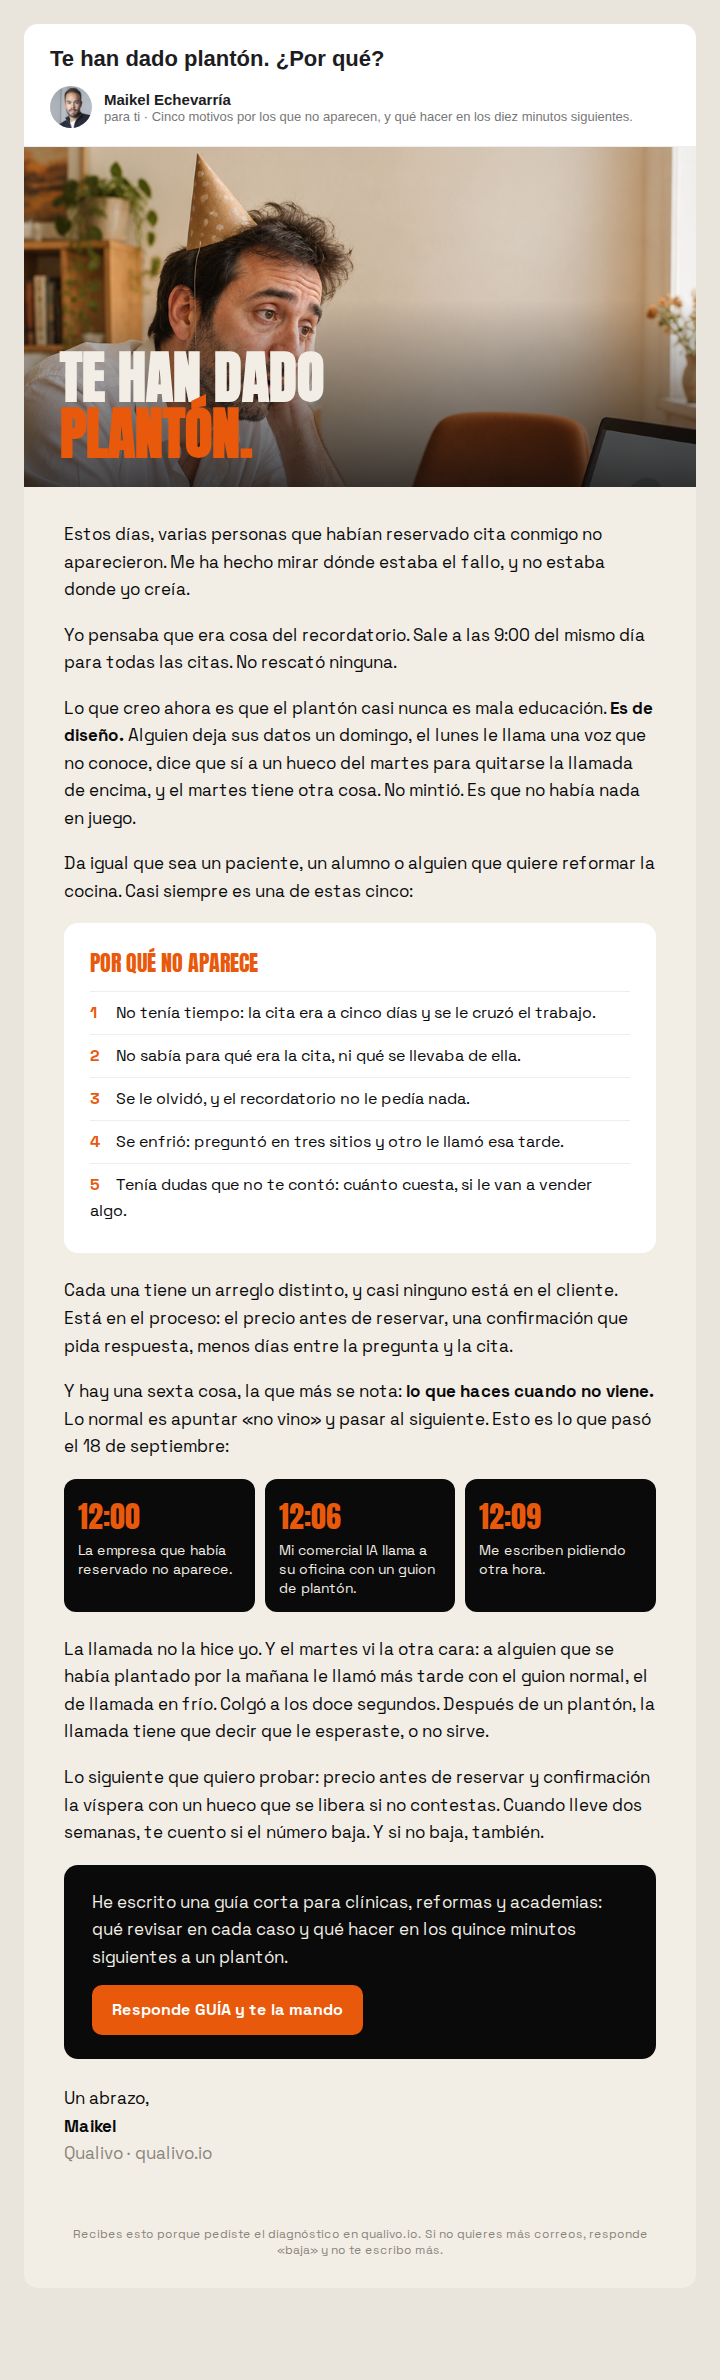
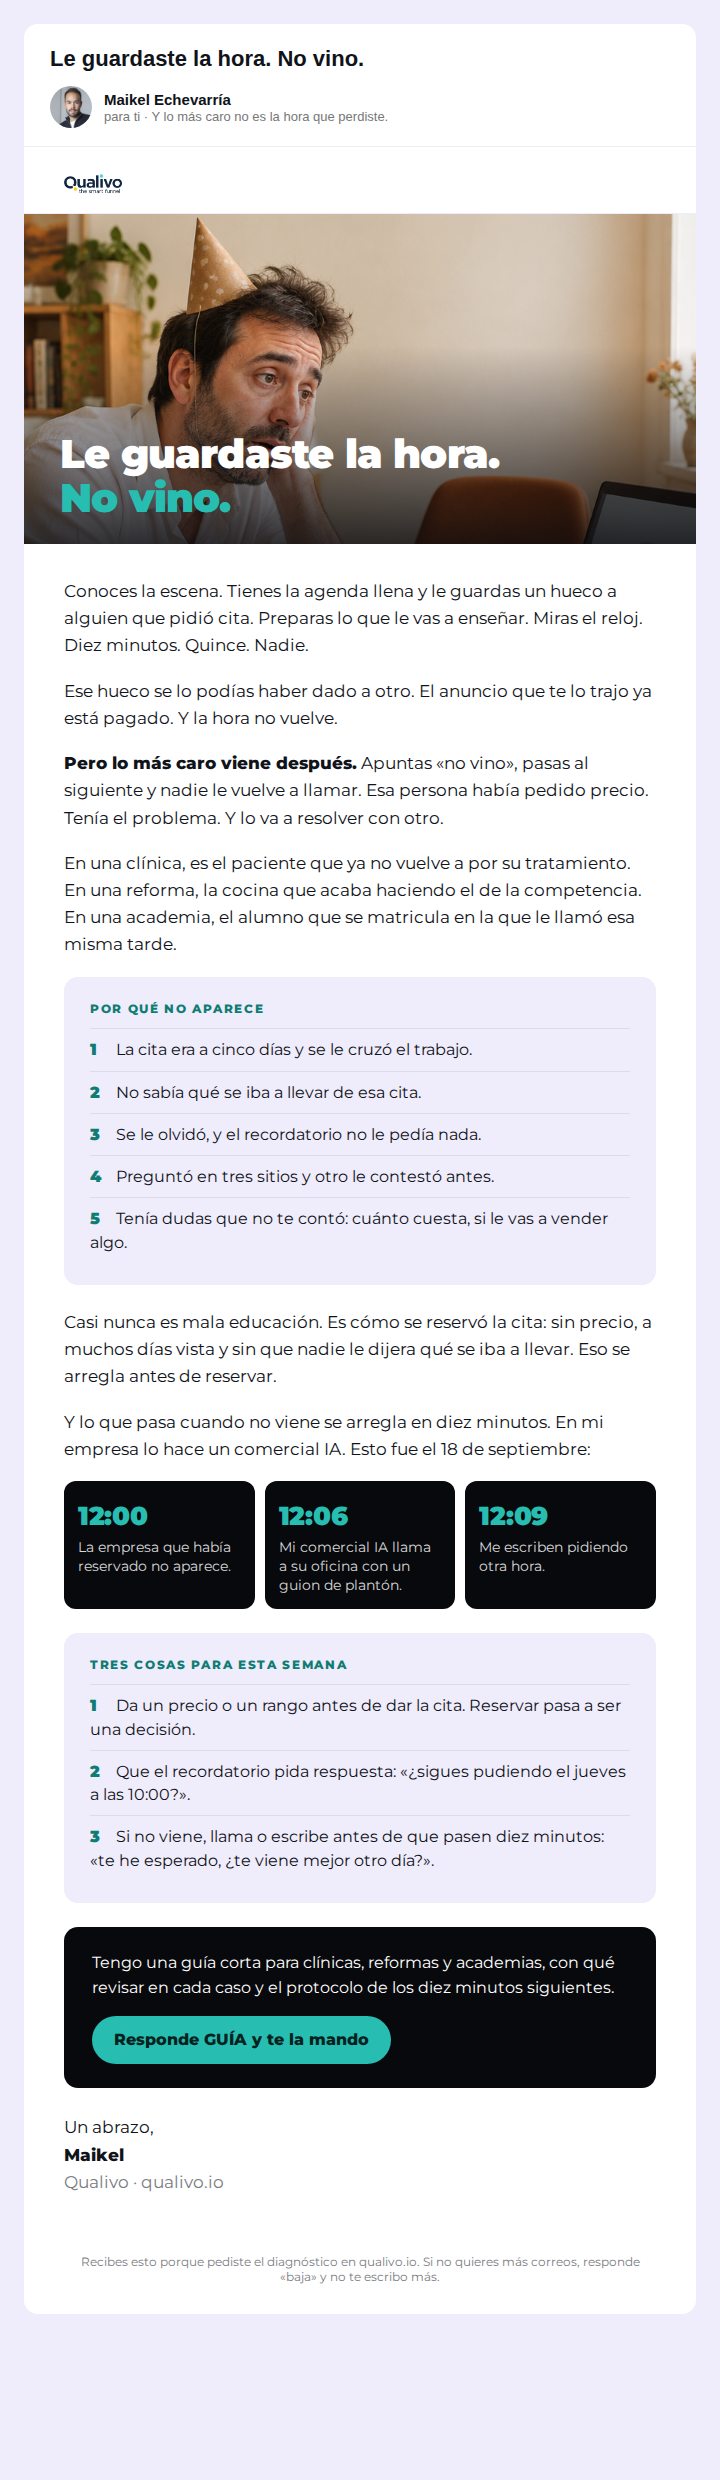
Newsletter de plantones v2: centrada en el dolor del cliente y con los colores y la tipografía de qualivo.io
Claude-Session: https://claude.ai/code/session_015zPzMSu62cfqSPYhENKK62

diff --git a/content/newsletter/maqueta/2026-09-25-plantones.html b/content/newsletter/maqueta/2026-09-25-plantones.html
@@ -1,65 +1,70 @@
 <!DOCTYPE html><html lang="es"><head><meta charset="utf-8"><style>
-@font-face{font-family:Anton;src:url(../../infografias/2026-09-10/fuentes/anton.ttf)}
-@font-face{font-family:SG;src:url(../../infografias/2026-09-10/fuentes/spacegrotesk.woff2) format('woff2')}
+@font-face{font-family:Montserrat;font-weight:100 900;src:url(../../../assets/fonts/montserrat-latin.woff2) format('woff2')}
 *{margin:0;padding:0;box-sizing:border-box}
-body{background:#E9E5DC;font-family:Arial,Helvetica,sans-serif;color:#1d1d1f;width:720px}
-.inbox{background:#fff;margin:24px 24px 0;border-radius:14px 14px 0 0;padding:22px 26px 18px;border-bottom:1px solid #eee}
+body{background:#EFECFB;font-family:Montserrat,Arial,sans-serif;color:#101319;width:720px}
+.inbox{background:#fff;margin:24px 24px 0;border-radius:14px 14px 0 0;padding:22px 26px 18px;border-bottom:1px solid #eee;font-family:Arial,Helvetica,sans-serif}
 .subj{font-size:22px;font-weight:700;margin-bottom:14px}
 .from{display:flex;align-items:center;gap:12px}
 .av{width:42px;height:42px;border-radius:50%;background:url(../../../assets/img/maikel.jpg) center/cover}
 .from b{font-size:15px}.from span{display:block;font-size:13px;color:#777}
-.mail{background:#F2EEE6;margin:0 24px 24px;border-radius:0 0 14px 14px;overflow:hidden}
-.hero{height:340px;background:url(portada.png) center 30%/cover;position:relative}
-.hero::after{content:'';position:absolute;inset:0;background:linear-gradient(180deg,rgba(0,0,0,0) 45%,rgba(10,10,11,.75) 100%)}
-.hero h1{position:absolute;left:36px;right:36px;bottom:26px;z-index:2;font-family:Anton;font-size:56px;line-height:1;text-transform:uppercase;color:#F2EEE6}
-.hero h1 span{color:#E8590C}
-.body{padding:34px 40px 40px;font-family:SG;font-size:17px;line-height:1.62;color:#0A0A0B}
+.mail{background:#FFFFFF;margin:0 24px 24px;border-radius:0 0 14px 14px;overflow:hidden}
+.logo{padding:22px 40px 18px;border-bottom:1px solid #EFECFB}.logo img{height:26px;display:block}
+.hero{height:330px;background:url(portada.png) center 30%/cover;position:relative}
+.hero::after{content:'';position:absolute;inset:0;background:linear-gradient(180deg,rgba(8,9,12,0) 40%,rgba(8,9,12,.82) 100%)}
+.hero h1{position:absolute;left:36px;right:36px;bottom:24px;z-index:2;font-weight:900;font-size:40px;line-height:1.1;letter-spacing:-.02em;color:#fff}
+.hero h1 span{color:#27BDB1}
+.body{padding:34px 40px 40px;font-size:16.5px;line-height:1.65;color:#101319}
 .body p{margin-bottom:18px}
-.body b{font-weight:700}
-.list{background:#fff;border-radius:14px;padding:22px 26px;margin:6px 0 24px}
-.list .t{font-family:Anton;font-size:22px;text-transform:uppercase;color:#E8590C;margin-bottom:10px}
-.list div.i{padding:8px 0;border-top:1px solid #eee;font-size:16px}
+.body b{font-weight:800}
+.list{background:#EFECFB;border-radius:14px;padding:22px 26px;margin:6px 0 24px}
+.list .t{font-size:12px;letter-spacing:.14em;text-transform:uppercase;font-weight:800;color:#0E7C74;margin-bottom:10px}
+.list div.i{padding:9px 0;border-top:1px solid rgba(16,19,25,.08);font-size:15.5px;line-height:1.5}
 .list div.i:first-of-type{border-top:0}
-.list div.i b{display:inline-block;width:26px;color:#E8590C}
+.list div.i b{display:inline-block;width:26px;color:#0E7C74;font-weight:900}
 .tl{display:flex;gap:10px;margin:6px 0 24px}
-.tl div{flex:1;background:#0A0A0B;color:#F2EEE6;border-radius:12px;padding:14px 14px}
-.tl div b{display:block;font-family:Anton;font-size:30px;color:#E8590C;font-weight:400}
-.tl div span{font-size:14px;line-height:1.35;display:block}
-.cta{background:#0A0A0B;color:#F2EEE6;border-radius:14px;padding:24px 28px;margin-top:8px}
-.cta .btn{display:inline-block;margin-top:14px;background:#E8590C;color:#fff;font-weight:700;padding:12px 20px;border-radius:10px;font-size:16px}
+.tl div{flex:1;background:#08090C;color:#fff;border-radius:12px;padding:14px}
+.tl div b{display:block;font-weight:900;font-size:26px;color:#27BDB1;letter-spacing:-.01em}
+.tl div span{font-size:13.5px;line-height:1.4;display:block;color:rgba(255,255,255,.85)}
+.cta{background:#08090C;color:#fff;border-radius:14px;padding:24px 28px;margin-top:8px;font-size:16px;line-height:1.55}
+.cta .btn{display:inline-block;margin-top:16px;background:#27BDB1;color:#04231F;font-weight:800;padding:12px 22px;border-radius:999px;font-size:15.5px}
 .firma{margin-top:26px}
-.pie{font-size:12px;color:#8a857c;text-align:center;padding:0 40px 30px;font-family:SG}
+.pie{font-size:12px;color:#7A7C82;text-align:center;padding:0 40px 30px}
 </style></head><body>
 <div class="inbox">
-  <div class="subj">Te han dado plantón. ¿Por qué?</div>
-  <div class="from"><div class="av"></div><div><b>Maikel Echevarría</b><span>para ti · Cinco motivos por los que no aparecen, y qué hacer en los diez minutos siguientes.</span></div></div>
+  <div class="subj">Le guardaste la hora. No vino.</div>
+  <div class="from"><div class="av"></div><div><b>Maikel Echevarría</b><span>para ti · Y lo más caro no es la hora que perdiste.</span></div></div>
 </div>
 <div class="mail">
-  <div class="hero"><h1>Te han dado<br><span>plantón.</span></h1></div>
+  <div class="logo"><img src="../../../assets/img/qualivo-logo.png" alt="Qualivo"></div>
+  <div class="hero"><h1>Le guardaste la hora.<br><span>No vino.</span></h1></div>
   <div class="body">
-    <p>Estos días, varias personas que habían reservado cita conmigo no aparecieron. Me ha hecho mirar dónde estaba el fallo, y no estaba donde yo creía.</p>
-    <p>Yo pensaba que era cosa del recordatorio. Sale a las 9:00 del mismo día para todas las citas. No rescató ninguna.</p>
-    <p>Lo que creo ahora es que el plantón casi nunca es mala educación. <b>Es de diseño.</b> Alguien deja sus datos un domingo, el lunes le llama una voz que no conoce, dice que sí a un hueco del martes para quitarse la llamada de encima, y el martes tiene otra cosa. No mintió. Es que no había nada en juego.</p>
-    <p>Da igual que sea un paciente, un alumno o alguien que quiere reformar la cocina. Casi siempre es una de estas cinco:</p>
+    <p>Conoces la escena. Tienes la agenda llena y le guardas un hueco a alguien que pidió cita. Preparas lo que le vas a enseñar. Miras el reloj. Diez minutos. Quince. Nadie.</p>
+    <p>Ese hueco se lo podías haber dado a otro. El anuncio que te lo trajo ya está pagado. Y la hora no vuelve.</p>
+    <p><b>Pero lo más caro viene después.</b> Apuntas «no vino», pasas al siguiente y nadie le vuelve a llamar. Esa persona había pedido precio. Tenía el problema. Y lo va a resolver con otro.</p>
+    <p>En una clínica, es el paciente que ya no vuelve a por su tratamiento. En una reforma, la cocina que acaba haciendo el de la competencia. En una academia, el alumno que se matricula en la que le llamó esa misma tarde.</p>
     <div class="list">
       <div class="t">Por qué no aparece</div>
-      <div class="i"><b>1</b>No tenía tiempo: la cita era a cinco días y se le cruzó el trabajo.</div>
-      <div class="i"><b>2</b>No sabía para qué era la cita, ni qué se llevaba de ella.</div>
+      <div class="i"><b>1</b>La cita era a cinco días y se le cruzó el trabajo.</div>
+      <div class="i"><b>2</b>No sabía qué se iba a llevar de esa cita.</div>
       <div class="i"><b>3</b>Se le olvidó, y el recordatorio no le pedía nada.</div>
-      <div class="i"><b>4</b>Se enfrió: preguntó en tres sitios y otro le llamó esa tarde.</div>
-      <div class="i"><b>5</b>Tenía dudas que no te contó: cuánto cuesta, si le van a vender algo.</div>
+      <div class="i"><b>4</b>Preguntó en tres sitios y otro le contestó antes.</div>
+      <div class="i"><b>5</b>Tenía dudas que no te contó: cuánto cuesta, si le vas a vender algo.</div>
     </div>
-    <p>Cada una tiene un arreglo distinto, y casi ninguno está en el cliente. Está en el proceso: el precio antes de reservar, una confirmación que pida respuesta, menos días entre la pregunta y la cita.</p>
-    <p>Y hay una sexta cosa, la que más se nota: <b>lo que haces cuando no viene.</b> Lo normal es apuntar «no vino» y pasar al siguiente. Esto es lo que pasó el 18 de septiembre:</p>
+    <p>Casi nunca es mala educación. Es cómo se reservó la cita: sin precio, a muchos días vista y sin que nadie le dijera qué se iba a llevar. Eso se arregla antes de reservar.</p>
+    <p>Y lo que pasa cuando no viene se arregla en diez minutos. En mi empresa lo hace un comercial IA. Esto fue el 18 de septiembre:</p>
     <div class="tl">
       <div><b>12:00</b><span>La empresa que había reservado no aparece.</span></div>
       <div><b>12:06</b><span>Mi comercial IA llama a su oficina con un guion de plantón.</span></div>
       <div><b>12:09</b><span>Me escriben pidiendo otra hora.</span></div>
     </div>
-    <p>La llamada no la hice yo. Y el martes vi la otra cara: a alguien que se había plantado por la mañana le llamó más tarde con el guion normal, el de llamada en frío. Colgó a los doce segundos. Después de un plantón, la llamada tiene que decir que le esperaste, o no sirve.</p>
-    <p>Lo siguiente que quiero probar: precio antes de reservar y confirmación la víspera con un hueco que se libera si no contestas. Cuando lleve dos semanas, te cuento si el número baja. Y si no baja, también.</p>
-    <div class="cta">He escrito una guía corta para clínicas, reformas y academias: qué revisar en cada caso y qué hacer en los quince minutos siguientes a un plantón.<br><span class="btn">Responde GUÍA y te la mando</span></div>
-    <p class="firma">Un abrazo,<br><b>Maikel</b><br><span style="color:#8a857c">Qualivo · qualivo.io</span></p>
+    <div class="list">
+      <div class="t">Tres cosas para esta semana</div>
+      <div class="i"><b>1</b>Da un precio o un rango antes de dar la cita. Reservar pasa a ser una decisión.</div>
+      <div class="i"><b>2</b>Que el recordatorio pida respuesta: «¿sigues pudiendo el jueves a las 10:00?».</div>
+      <div class="i"><b>3</b>Si no viene, llama o escribe antes de que pasen diez minutos: «te he esperado, ¿te viene mejor otro día?».</div>
+    </div>
+    <div class="cta">Tengo una guía corta para clínicas, reformas y academias, con qué revisar en cada caso y el protocolo de los diez minutos siguientes.<br><span class="btn">Responde GUÍA y te la mando</span></div>
+    <p class="firma">Un abrazo,<br><b>Maikel</b><br><span style="color:#7A7C82">Qualivo · qualivo.io</span></p>
   </div>
   <div class="pie">Recibes esto porque pediste el diagnóstico en qualivo.io. Si no quieres más correos, responde «baja» y no te escribo más.</div>
 </div>

diff --git a/content/newsletter/2026-09-25-plantones.md b/content/newsletter/2026-09-25-plantones.md
@@ -1,4 +1,4 @@
-# Newsletter · «Te han dado plantón. ¿Por qué?» · propuesta de envío viernes 25-sep-2026
+# Newsletter · «Le guardaste la hora. No vino.» · propuesta de envío viernes 25-sep-2026
 
 > Pedida por Maikel el 24-sep junto con el carrusel de plantones y la guía.
 > Puede ir como capítulo 2 de «Agentizando mi propia empresa» (si el capítulo
@@ -9,11 +9,13 @@
 
 ## Maqueta (24-sep)
 
-Versión de correo, la que manda: `content/newsletter/maqueta/2026-09-25-plantones.html` (imagen: `maqueta/2026-09-25-plantones.png`). Misma portada que el carrusel publicado hoy, lista de los cinco motivos, línea de tiempo del 18-sep (12:00, 12:06, 12:09) y un solo botón: «Responde GUÍA». Si hay diferencias con el texto de abajo, vale la maqueta.
+Versión de correo, la que manda: `content/newsletter/maqueta/2026-09-25-plantones.html` (imagen: `maqueta/2026-09-25-plantones.png`). **v2 (24-sep, Maikel: «más enfocada al dolor del cliente» y «los colores de qualivo.io son diferentes»):** empieza en la escena del lector (le guardaste la hora, no vino), agita con lo que cuesta de verdad (nadie le vuelve a llamar y lo resuelve con otro), cara del problema en clínica, reforma y academia, los cinco motivos, el caso del 18-sep como prueba, tres cosas para esta semana y un solo botón. Colores y tipografía de la web: blanco, tinta #101319, verde azulado #27BDB1 y #0E7C74, lila #EFECFB, Montserrat, logo de Qualivo. El texto de abajo es la versión anterior: vale la maqueta.
 
 ## Asunto y preheader
 
-- **Asunto (recomendado):** Te han dado plantón. ¿Por qué?
+- **Asunto (recomendado, v2):** Le guardaste la hora. No vino.
+- **Preheader (v2):** Y lo más caro no es la hora que perdiste.
+- Anterior: Te han dado plantón. ¿Por qué?
 - Alternativa 1: Lo que hago a los seis minutos de un plantón
 - Alternativa 2: Un plantón no significa que el cliente sea malo
 - **Preheader:** Cinco motivos por los que no aparecen, y qué hacer en los diez minutos siguientes.

diff --git a/content/diario-contenido.md b/content/diario-contenido.md
@@ -565,3 +565,5 @@ Maikel, 24-sep tarde: saltar de sector en cada lámina «queda raro». Rehecho e
 ### Jueves 24 · publicado en Instagram
 
 Carrusel «Te han dado plantón» (v3) publicado en @maikel.echevarria a las 11:06 UTC, con el ok de Maikel. Post en estado «published» en el Social Planner. Quien comente GUÍA recibe la guía a mano. La newsletter de plantones sigue en borrador.
+
+Newsletter de plantones v2 (24-sep): Maikel pidió enfocarla al dolor del cliente y usar los colores de la web. Rehecha en orden problema, agitar, solución, con el caso propio solo como prueba; paleta y tipografía de qualivo.io. Regla que anoto: los correos llevan la marca de la web (blanco, #101319, #27BDB1, Montserrat); las piezas de redes siguen con el molde de contenido hasta que Maikel decida si también cambian.
